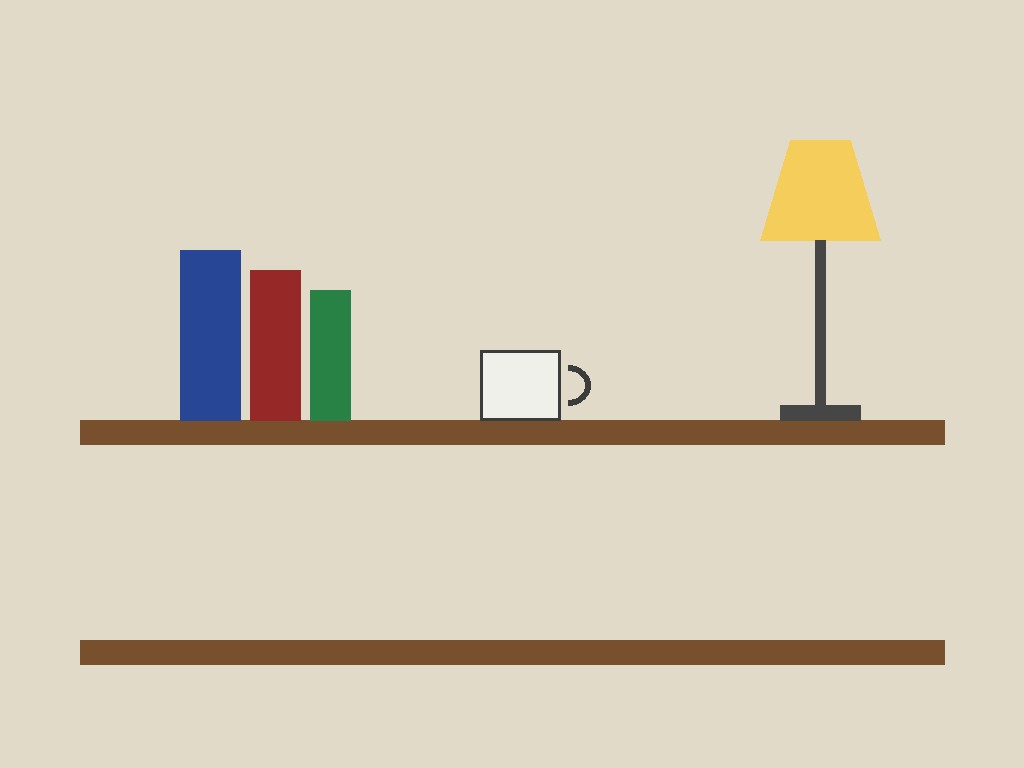
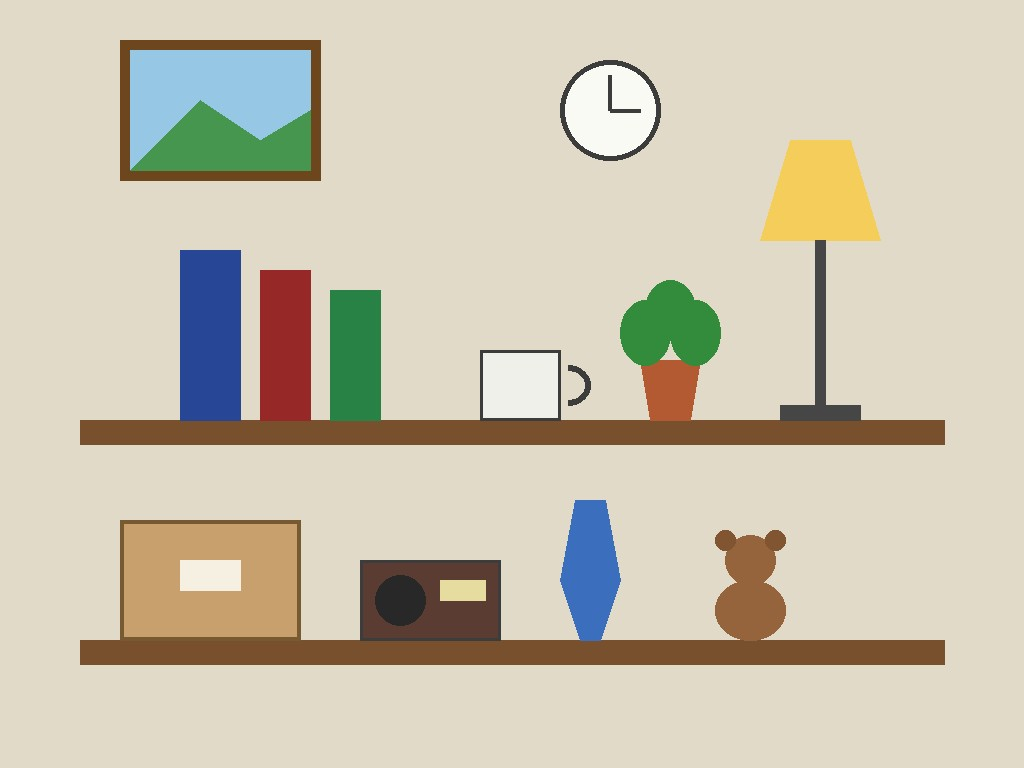
feat(ui): S2.6 upload UI + demo fixtures GREEN (MEM-017)

diff --git a/static/app.js b/static/app.js
@@ -1,5 +1,12 @@
 // @ts-check
-// MemriPal frontend shell: shows backend health. Served as a raw ES module (no build step).
+// MemriPal frontend: backend health plus photo upload -> numbered memory loci (MEM-017).
+// Served as a raw ES module (no build step). Model-derived text is only ever set via textContent.
+
+/**
+ * @typedef {{x1: number, y1: number, x2: number, y2: number}} LocusBox
+ * @typedef {{n: number, label: string, phrase?: string, box?: LocusBox}} Locus
+ * @typedef {{image: string, width: number, height: number, loci: Locus[]}} LociResponse
+ */
 
 /**
  * @param {{status?: string, mode?: string} | null} health
@@ -10,16 +17,136 @@ export function formatHealth(health) {
   return `Backend ok (${health.mode} mode)`;
 }
 
+/**
+ * @param {{n: number, label: string}} locus
+ * @returns {string}
+ */
+export function locusCaption({ n, label }) {
+  return `${n}. ${label}`;
+}
+
+/**
+ * Scale that fits an imgW-wide image into maxW without ever upscaling; 1 for any unusable argument.
+ * @param {number} imgW
+ * @param {number} imgH
+ * @param {number} maxW
+ * @returns {number}
+ */
+export function fitScale(imgW, imgH, maxW) {
+  const usable = [imgW, imgH, maxW].every((v) => Number.isFinite(v) && v > 0);
+  return usable ? Math.min(1, maxW / imgW) : 1;
+}
+
+/** @param {string} id */
+function byId(id) {
+  return document.getElementById(id);
+}
+
 async function showHealth() {
-  const el = document.getElementById("status");
+  const el = byId("status");
   if (!el) return;
   try {
     const resp = await fetch("/healthz");
-    el.textContent = formatHealth(resp.ok ? await resp.json() : null);
+    const health = resp.ok ? await resp.json() : null;
+    el.textContent = formatHealth(health);
+    // The privacy notice only applies when the photo actually leaves for Meta's APIs.
+    const notice = byId("meta-notice");
+    if (notice && health && health.mode === "meta") notice.hidden = false;
   } catch {
     el.textContent = formatHealth(null);
   }
 }
 
+/**
+ * Re-encode in the browser: canvas output drops EXIF (incl. GPS) and bakes in the orientation.
+ * @param {File} file
+ * @returns {Promise<Blob>}
+ */
+async function reencodeJpeg(file) {
+  const bitmap = await createImageBitmap(file, { imageOrientation: "from-image" });
+  const canvas = document.createElement("canvas");
+  canvas.width = bitmap.width;
+  canvas.height = bitmap.height;
+  const ctx = canvas.getContext("2d");
+  if (!ctx) throw new Error("canvas unavailable");
+  ctx.drawImage(bitmap, 0, 0);
+  bitmap.close();
+  return new Promise((resolve, reject) => {
+    canvas.toBlob((blob) => (blob ? resolve(blob) : reject(new Error("encode failed"))), "image/jpeg", 0.9);
+  });
+}
+
+/**
+ * @param {LociResponse} payload
+ */
+async function drawResult(payload) {
+  const canvas = /** @type {HTMLCanvasElement | null} */ (byId("scene"));
+  const list = byId("loci");
+  if (!canvas || !list) return;
+  const img = new Image();
+  img.src = payload.image;
+  await img.decode();
+  const maxW = canvas.parentElement ? canvas.parentElement.clientWidth : payload.width;
+  const scale = fitScale(payload.width, payload.height, maxW);
+  canvas.width = Math.round(payload.width * scale);
+  canvas.height = Math.round(payload.height * scale);
+  const ctx = canvas.getContext("2d");
+  if (!ctx) return;
+  ctx.drawImage(img, 0, 0, canvas.width, canvas.height);
+  ctx.lineWidth = 3;
+  ctx.font = "bold 18px sans-serif";
+  ctx.textBaseline = "top";
+  list.replaceChildren();
+  for (const locus of payload.loci) {
+    if (locus.box) {
+      const { x1, y1, x2, y2 } = locus.box;
+      ctx.strokeStyle = "#ff3b30";
+      ctx.strokeRect(x1 * scale, y1 * scale, (x2 - x1) * scale, (y2 - y1) * scale);
+      ctx.fillStyle = "#ff3b30";
+      ctx.fillRect(x1 * scale, y1 * scale, 28, 24);
+      ctx.fillStyle = "#ffffff";
+      ctx.fillText(String(locus.n), x1 * scale + 4, y1 * scale + 3);
+    }
+    const item = document.createElement("li");
+    item.textContent = locusCaption(locus);
+    list.append(item);
+  }
+}
+
+/**
+ * @param {File} file
+ */
+async function upload(file) {
+  const status = byId("upload-status");
+  if (!status) return;
+  status.textContent = "Finding places in your photo...";
+  try {
+    const body = await reencodeJpeg(file);
+    const resp = await fetch("/loci", { method: "POST", headers: { "Content-Type": "image/jpeg" }, body });
+    const payload = await resp.json().catch(() => null);
+    if (!resp.ok) {
+      const code = payload && typeof payload.error === "string" ? payload.error : `http_${resp.status}`;
+      status.textContent = `Upload failed: ${code}`;
+      return;
+    }
+    await drawResult(payload);
+    status.textContent = `Found ${payload.loci.length} places`;
+  } catch {
+    status.textContent = "Upload failed: could not read or send the photo";
+  }
+}
+
+function wireUpload() {
+  const input = /** @type {HTMLInputElement | null} */ (byId("photo"));
+  if (!input) return;
+  input.addEventListener("change", () => {
+    const file = input.files && input.files[0];
+    if (file) upload(file);
+  });
+}
+
 // Guard keeps the module importable under node --test.
-if (typeof document !== "undefined") showHealth();
+if (typeof document !== "undefined") {
+  showHealth();
+  wireUpload();
+}

diff --git a/static/index.html b/static/index.html
@@ -9,6 +9,14 @@
     <main>
       <h1>MemriPal</h1>
       <p id="status">Checking backend...</p>
+      <p id="meta-notice" hidden>Your photo is sent to Meta's AI APIs to find places in it.</p>
+      <label for="photo">Take or choose a photo of a room</label>
+      <input id="photo" type="file" accept="image/*" capture="environment">
+      <p id="upload-status" role="status"></p>
+      <div id="scene-wrap">
+        <canvas id="scene" width="0" height="0"></canvas>
+      </div>
+      <ol id="loci"></ol>
     </main>
     <script type="module" src="/static/app.js"></script>
   </body>

diff --git a/scripts/make_synthetic_fixtures.py b/scripts/make_synthetic_fixtures.py
@@ -1,4 +1,4 @@
-"""Generate the offline demo fixtures (MEM-005). Deterministic and idempotent.
+"""Generate the offline demo fixtures (MEM-005, MEM-017). Deterministic and idempotent.
 
 Usage: uv run python scripts/make_synthetic_fixtures.py
 Writes fixtures/demo/photo.jpg, replayable responses under fixtures/replay/, and fixtures/MANIFEST.md.
@@ -12,18 +12,40 @@ from pathlib import Path
 
 from PIL import Image, ImageDraw
 
-from memripal.backend import CacheKey, ResponseCache
+from memripal.backend import CacheKey, ModelRequest, ResponseCache
+from memripal.imaging import process_upload
+from memripal.loci import SAM_MODEL, SPARK_GEN_PARAMS, SPARK_MODEL
+from memripal.probe import PHRASE_SCHEMA
 
 FIXTURES = Path(__file__).resolve().parents[1] / "fixtures"
 SOURCE = "synthetic, generated by scripts/make_synthetic_fixtures.py"
 LICENSE = "MIT (own work)"
 
-# Bounding boxes (x0, y0, x1, y1) of the drawn objects; reused as the fake segmentation output.
+# Bounding boxes (x0, y0, x1, y1) of the drawn objects; reused as the legacy MEM-005 segmentation output.
 OBJECTS = {
     "book": (180, 250, 240, 420),
     "mug": (480, 350, 560, 420),
     "lamp": (760, 140, 880, 420),
 }
+
+# MEM-017 scene: one box per Spark phrase, each 0.5%-40% of the frame, non-overlapping and with centroids
+# more than 5% of the diagonal apart, so select_loci keeps all 12 in the first round (no re-ask fixture).
+SCENE = {
+    "blue book": OBJECTS["book"],
+    "red book": (260, 270, 310, 420),
+    "green book": (330, 290, 380, 420),
+    "white mug": OBJECTS["mug"],
+    "desk lamp": OBJECTS["lamp"],
+    "wall clock": (560, 60, 660, 160),
+    "picture frame": (120, 40, 320, 180),
+    "potted plant": (620, 280, 720, 420),
+    "storage box": (120, 520, 300, 640),
+    "radio": (360, 560, 500, 640),
+    "vase": (560, 500, 620, 640),
+    "teddy bear": (700, 530, 800, 640),
+}
+
+DARK = (60, 60, 60)
 
 
 def draw_shelf() -> Image.Image:
@@ -31,15 +53,34 @@ def draw_shelf() -> Image.Image:
     draw = ImageDraw.Draw(img)
     for y in (420, 640):
         draw.rectangle((80, y, 944, y + 24), fill=(120, 80, 45))
-    draw.rectangle(OBJECTS["book"], fill=(40, 70, 150))
-    draw.rectangle((250, 270, 300, 420), fill=(150, 40, 40))
-    draw.rectangle((310, 290, 350, 420), fill=(40, 130, 70))
-    draw.rectangle(OBJECTS["mug"], fill=(240, 240, 235), outline=(60, 60, 60), width=3)
-    draw.arc((545, 365, 590, 405), 270, 90, fill=(60, 60, 60), width=6)
-    lx0, ly0, lx1, ly1 = OBJECTS["lamp"]
+    draw.rectangle(SCENE["blue book"], fill=(40, 70, 150))
+    draw.rectangle(SCENE["red book"], fill=(150, 40, 40))
+    draw.rectangle(SCENE["green book"], fill=(40, 130, 70))
+    draw.rectangle(SCENE["white mug"], fill=(240, 240, 235), outline=DARK, width=3)
+    draw.arc((545, 365, 590, 405), 270, 90, fill=DARK, width=6)
+    lx0, ly0, lx1, ly1 = SCENE["desk lamp"]
     draw.polygon([(lx0, ly0 + 100), (lx1, ly0 + 100), (lx1 - 30, ly0), (lx0 + 30, ly0)], fill=(245, 205, 90))
     draw.rectangle((815, ly0 + 100, 825, ly1 - 15), fill=(70, 70, 70))
     draw.rectangle((780, ly1 - 15, 860, ly1), fill=(70, 70, 70))
+    draw.ellipse(SCENE["wall clock"], fill=(250, 250, 245), outline=DARK, width=5)
+    draw.line((610, 110, 610, 75), fill=DARK, width=4)
+    draw.line((610, 110, 640, 110), fill=DARK, width=4)
+    draw.rectangle(SCENE["picture frame"], fill=(150, 200, 230), outline=(110, 70, 30), width=10)
+    draw.polygon([(130, 170), (200, 100), (260, 140), (310, 110), (310, 170)], fill=(70, 150, 80))
+    draw.polygon([(640, 360), (700, 360), (690, 420), (650, 420)], fill=(180, 90, 50))
+    for leaf in ((620, 300, 670, 365), (670, 300, 720, 365), (645, 280, 695, 340)):
+        draw.ellipse(leaf, fill=(50, 140, 60))
+    draw.rectangle(SCENE["storage box"], fill=(200, 160, 110), outline=(120, 90, 50), width=4)
+    draw.rectangle((180, 560, 240, 590), fill=(245, 240, 225))
+    draw.rectangle(SCENE["radio"], fill=(90, 60, 50), outline=DARK, width=3)
+    draw.ellipse((375, 575, 425, 625), fill=(40, 40, 40))
+    draw.rectangle((440, 580, 485, 600), fill=(230, 220, 160))
+    vase = [(575, 500), (605, 500), (620, 580), (600, 640), (580, 640), (560, 580)]
+    draw.polygon(vase, fill=(60, 110, 190))
+    draw.ellipse((715, 580, 785, 640), fill=(150, 100, 60))
+    draw.ellipse((725, 535, 775, 585), fill=(150, 100, 60))
+    draw.ellipse((715, 530, 735, 550), fill=(130, 85, 50))
+    draw.ellipse((765, 530, 785, 550), fill=(130, 85, 50))
     return img
 
 
@@ -47,6 +88,38 @@ def to_bytes(img: Image.Image, fmt: str, **kwargs) -> bytes:
     buf = io.BytesIO()
     img.save(buf, format=fmt, **kwargs)
     return buf.getvalue()
+
+
+def loci_entries(cache: ResponseCache, photo_bytes: bytes) -> list[Path]:
+    """Replays keyed by exactly the requests find_loci derives from process_upload(photo) (MEM-017)."""
+    processed = process_upload(photo_bytes)
+    spark = ModelRequest(
+        method="spark_json",
+        image_jpeg=processed.jpeg,
+        subject="phrases",
+        attempt=0,
+        model=SPARK_MODEL,
+        prompt_template_id="phrase",
+        gen_params=dict(SPARK_GEN_PARAMS),
+        schema=PHRASE_SCHEMA,
+    )
+    phrases = json.dumps({"phrases": list(SCENE)}, indent=2) + "\n"
+    written = [cache.put(spark.cache_key(), phrases.encode("utf-8"))]
+    w, h = processed.width, processed.height
+    for phrase, (x0, y0, x1, y1) in SCENE.items():
+        seg = ModelRequest(
+            method="segment",
+            image_jpeg=processed.jpeg,
+            subject=phrase,
+            attempt=0,
+            model=SAM_MODEL,
+            prompt_template_id="sam-phrase",
+            gen_params={},
+            schema=None,
+        )
+        text = f"<|box;x1={x0};y1={y0};x2={x1};y2={y1};w={w};h={h}|>\n"
+        written.append(cache.put(seg.cache_key(), text.encode("utf-8")))
+    return written
 
 
 def main() -> int:
@@ -67,6 +140,7 @@ def main() -> int:
     edit = shelf.crop(OBJECTS["book"]).resize((120, 340))
     edit_webp = to_bytes(edit, "WEBP", lossless=True)
     written.append(cache.put(CacheKey("image_edit", photo_sha, "book"), edit_webp))
+    written.extend(loci_entries(cache, photo_bytes))
 
     header = ["# Fixtures manifest", "", "| Path | Source | License |", "| --- | --- | --- |"]
     rows = [f"| `{p.relative_to(FIXTURES).as_posix()}` | {SOURCE} | {LICENSE} |" for p in sorted(written)]

diff --git a/fixtures/MANIFEST.md b/fixtures/MANIFEST.md
@@ -3,8 +3,21 @@
 | Path | Source | License |
 | --- | --- | --- |
 | `demo/photo.jpg` | synthetic, generated by scripts/make_synthetic_fixtures.py | MIT (own work) |
-| `replay/image_edit/fdb3a1b7edfb1914ce2c725f713b83c2001185c464de4e9be661a790d0115bde.webp` | synthetic, generated by scripts/make_synthetic_fixtures.py | MIT (own work) |
-| `replay/segment/44edf28c34d3c9e2feb7d071ae829de331af41ffda1fb2c43fcd67ef7c62acde.txt` | synthetic, generated by scripts/make_synthetic_fixtures.py | MIT (own work) |
-| `replay/segment/4cfe65e490d15ffc5cad5d4d542cb7f5ce98d0ad58b8a1b5fd2efcf6b4ccb4d4.txt` | synthetic, generated by scripts/make_synthetic_fixtures.py | MIT (own work) |
-| `replay/segment/68e8c83d8aab77b8d29d3f2b83be84d4f3cd0e94b5e5fda3f977ec62297dfa0f.txt` | synthetic, generated by scripts/make_synthetic_fixtures.py | MIT (own work) |
-| `replay/spark_json/f6311b3d865fb190450ccd090133859e6819b01abec88a18c6d9eb0af029b8b3.json` | synthetic, generated by scripts/make_synthetic_fixtures.py | MIT (own work) |
+| `replay/image_edit/680dfbf7753a02725b6497689f45686fcd638bfe21852f2f76ed111a2282d40a.webp` | synthetic, generated by scripts/make_synthetic_fixtures.py | MIT (own work) |
+| `replay/segment/13e83a836317134039e50cebd8c37b000d80fe99c17d403935754be7f2388f57.txt` | synthetic, generated by scripts/make_synthetic_fixtures.py | MIT (own work) |
+| `replay/segment/1e52014a8e22b3ae90c9d81df676590d3e1b453d4884fd930dc68b695ecda57e.txt` | synthetic, generated by scripts/make_synthetic_fixtures.py | MIT (own work) |
+| `replay/segment/5365660a5b9d9231510c4d267fa9b35b0db81e40c4c4bc86da1fdef7dd603975.txt` | synthetic, generated by scripts/make_synthetic_fixtures.py | MIT (own work) |
+| `replay/segment/61d53bb64c33dae6275fe36bad58f60cc2eec53c4706a6998831d0e42d0cf5e1.txt` | synthetic, generated by scripts/make_synthetic_fixtures.py | MIT (own work) |
+| `replay/segment/62c0e2dae7003f6d4250e436f7f586f3bd504473ee3b0233fbad406a4d513787.txt` | synthetic, generated by scripts/make_synthetic_fixtures.py | MIT (own work) |
+| `replay/segment/6695aa293fb1073511984245b5aa0799e0efe595b7098486277eedfac05844c5.txt` | synthetic, generated by scripts/make_synthetic_fixtures.py | MIT (own work) |
+| `replay/segment/66b5891619b609569042c87aaf82d9cee8ddd000b66c8058729b496726ac7e77.txt` | synthetic, generated by scripts/make_synthetic_fixtures.py | MIT (own work) |
+| `replay/segment/71e8dc73810e73eb73c80ed1f3366b9e93de2e7ade160f7fd42c2add790dc995.txt` | synthetic, generated by scripts/make_synthetic_fixtures.py | MIT (own work) |
+| `replay/segment/914755be5440e62daa1e520b86ec85b976e9962aa046f19c0fd3166b1824cf1a.txt` | synthetic, generated by scripts/make_synthetic_fixtures.py | MIT (own work) |
+| `replay/segment/9613478d9e91abe612b5582628fb4ed0e603d7311b3f53c6df71720bdde1c5b7.txt` | synthetic, generated by scripts/make_synthetic_fixtures.py | MIT (own work) |
+| `replay/segment/9ee49dc7b6a789783a50439cfb87f8aeb50c33ec7a241084d8292dae299f56d7.txt` | synthetic, generated by scripts/make_synthetic_fixtures.py | MIT (own work) |
+| `replay/segment/ae4aee71f6fb93b8cdbacc77a035d9120f644149476716d2d45650b9cad900b9.txt` | synthetic, generated by scripts/make_synthetic_fixtures.py | MIT (own work) |
+| `replay/segment/c5cda0a4917943786bccd33c815cf8755eb0d29f7e7ce94e4d33880d8e1b6f7a.txt` | synthetic, generated by scripts/make_synthetic_fixtures.py | MIT (own work) |
+| `replay/segment/d1dcba210fc5f7ad94e7b9dec80caf48fde32d949ea398fa163882564a00b7ae.txt` | synthetic, generated by scripts/make_synthetic_fixtures.py | MIT (own work) |
+| `replay/segment/d98df65838e2b65cbdd780a091f28ec8e69d4b17d1dddb7d58bdeb44192b66b9.txt` | synthetic, generated by scripts/make_synthetic_fixtures.py | MIT (own work) |
+| `replay/spark_json/98b2ece9b9470a885f574b967e13434142c3f43bb519fb258d807f9652101d33.json` | synthetic, generated by scripts/make_synthetic_fixtures.py | MIT (own work) |
+| `replay/spark_json/e6ed8e2ba12a1b51bb6d81af212083569ad8c6e3cb8fd4523f13c324089878d5.json` | synthetic, generated by scripts/make_synthetic_fixtures.py | MIT (own work) |
